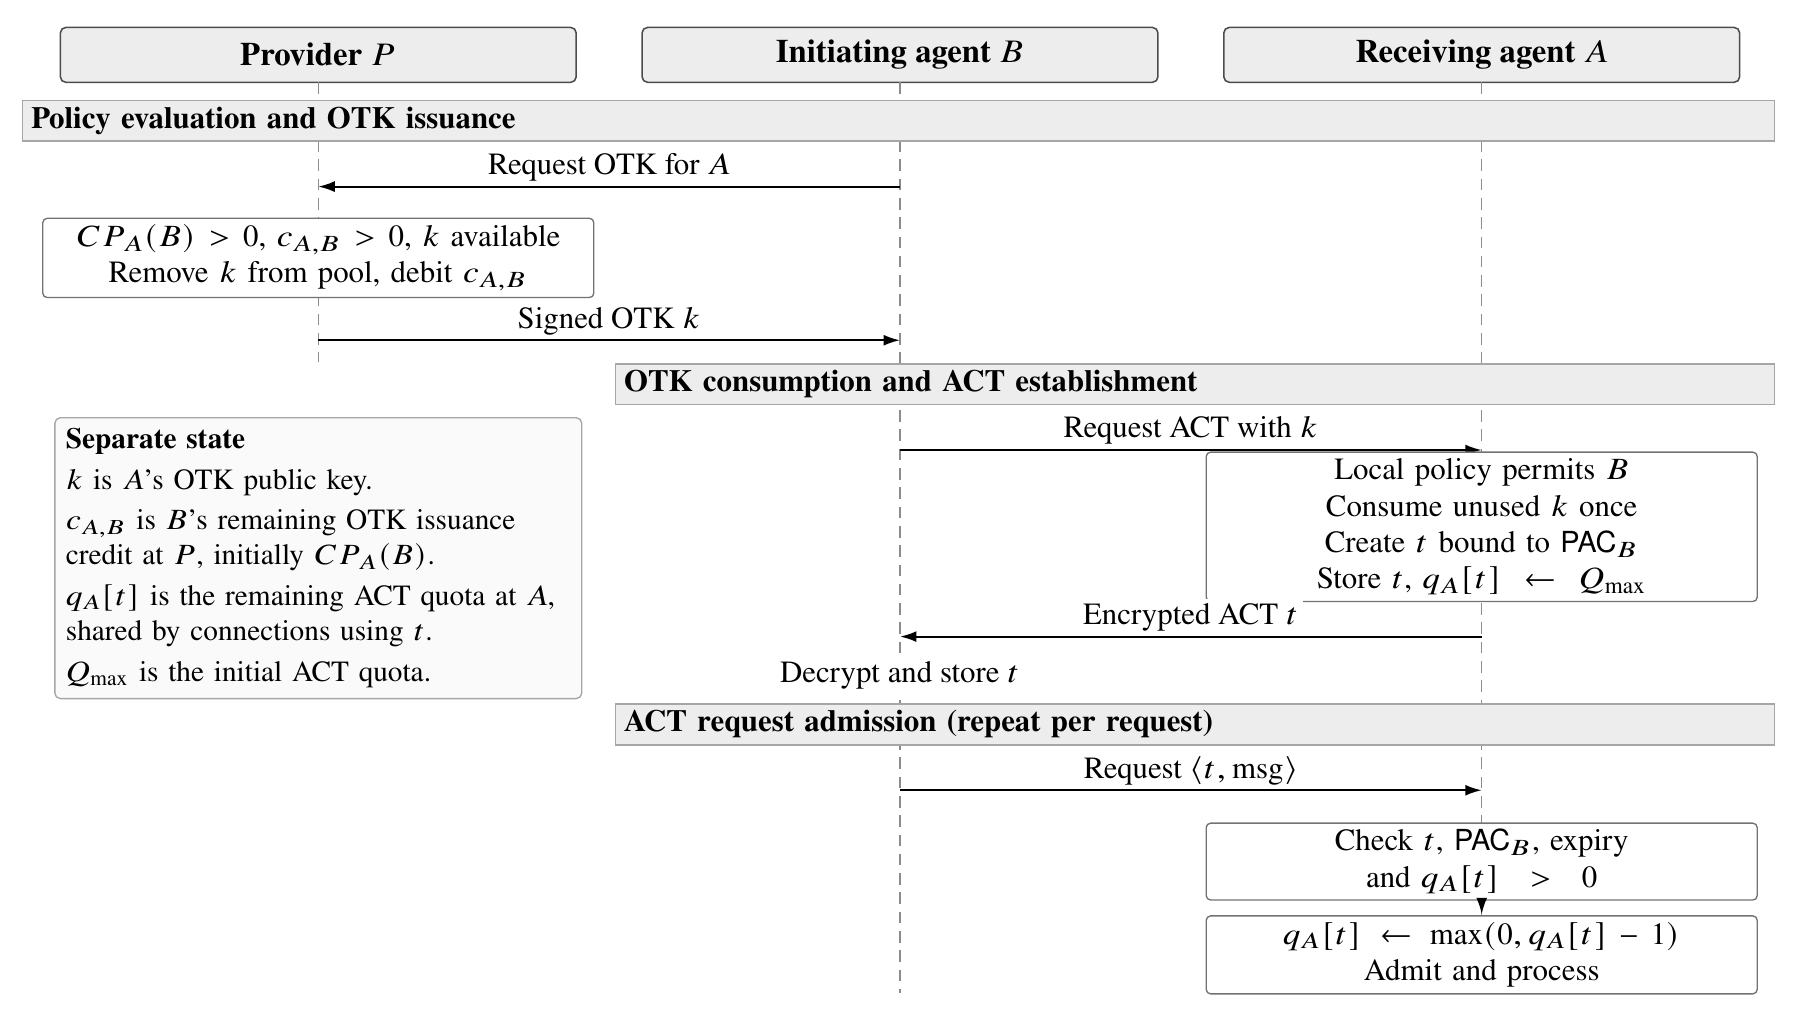
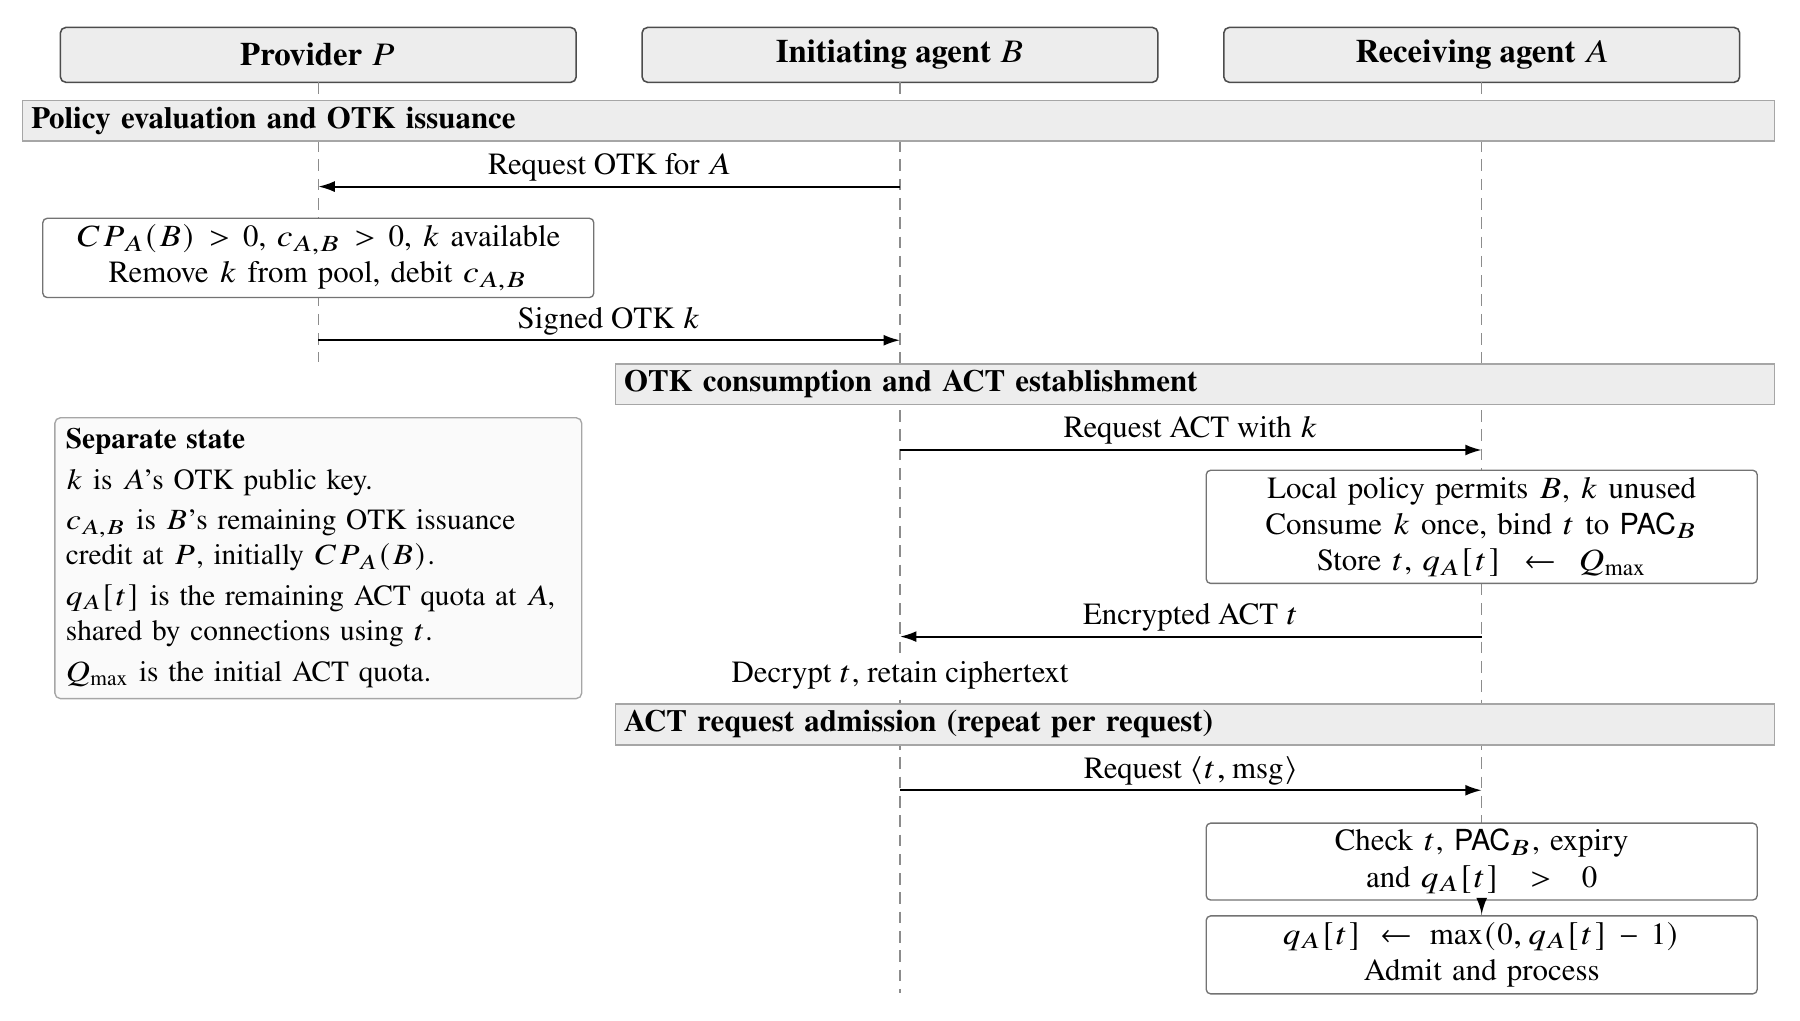
1

Changed region(s): [[0.6844, 0.4251, 0.9644, 0.5769], [0.4044, 0.6376, 0.5911, 0.668]]

diff --git a/paper_letter/draft_zh/01_引言.tex b/paper_letter/draft_zh/01_引言.tex
@@ -5,17 +5,17 @@
 \section{引言}
 \label{sec:introduction}
 
-代理间安全通信需要身份认证、联系授权以及已授权通信的资源使用控制。
-SAGA 通过接触策略、一次性公钥（One-Time Key，OTK）和访问控制令牌（Access Control Token，ACT）实现分阶段通信授权~\cite{syros2025sagaV2}。
+代理间安全通信需要身份认证、联系授权以及已授权通信的资源使用控制~\cite{lampson1992authentication}。
+SAGA 通过接触策略、一次性公钥（One-Time Key，OTK）和访问控制令牌（Access Control Token，ACT）实现分阶段通信授权~\cite{syros2025saga}。
 Provider 根据策略与领取额度发放 OTK，接收方检查本地策略并消费 OTK，为实际连接者签发 ACT，以令牌额度控制后续请求。
 其授权保证依赖身份与凭证核验、策略决策及额度约束的正确执行。
 
-已有授权策略分析能够检查规则组合是否产生非预期许可，以及策略变更如何影响访问结果~\cite{fisler2005margrave}。
-在 SAGA 中，策略判定的结果进一步影响 OTK 发放、ACT 建立及后续请求准入。
-Provider 按领取身份维护 OTK 发放额度，接收方依据实际连接身份、本地策略及 OTK 未消费状态签发 ACT，并在多个连接之间共享同一令牌的剩余额度~\cite{syros2025sagaV2,sagaReferenceImpl2026}。
-跨主体、跨阶段的状态维护因此要求检查规则选择是否符合预期优先语义、按身份领取额度能否限制同一身份取得新 ACT 的次数，以及并发检查与扣减能否维持累计准入上限。
+SAGA 原始研究已采用 ProVerif~\cite{blanchet2016proverif} 验证代理与 Provider 之间通信的认证、代理间通信的认证以及 ACT 机密性~\cite{syros2025saga}。
+这些认证与机密性性质不能直接推出接触策略求值符合预期规则优先语义、OTK 发放身份与实际使用身份对应，或并发请求下 ACT 累计准入不超过初始额度。
+相应的授权执行保证还依赖规则选择、消费阶段的领取者核验以及共享额度更新。
+本文据所采用的协议版本与固定参考实现~\cite{syros2025sagaV2,sagaReferenceImpl2026}补充检查这些执行性质，其中 OTK 同人使用对应是额外提出的更强目标。
 
-分析方法依据各项性质所依赖的执行特征确定。
+分析方法依据各项性质所依赖的执行特征确定，符号分析结果结合模型假设与具体查询解释~\cite{kobeissi2026analyzers}。
 策略一致性要求实际预算符合规则优先语义，适合以独立参考求值对照原生匹配函数，受控消费者执行进一步追踪错误决策向 ACT 签发的传播。
 OTK 的发放与使用涉及多个身份及两端独立维护的资源状态，因而以 Tamarin~\cite{meier2013tamarin} 追踪发放、主动转交与成功使用的事件对应，检查领取者与使用者是否一致。
 ACT 的累计准入取决于多个连接对共享额度的并发操作，因此以 TLA$^{+}$~\cite{lamport2002specifying} 建模检查与扣减的交错，用 TLC 检查累计准入不变量，并以原生方法级受控实验观察后端调用次数。
